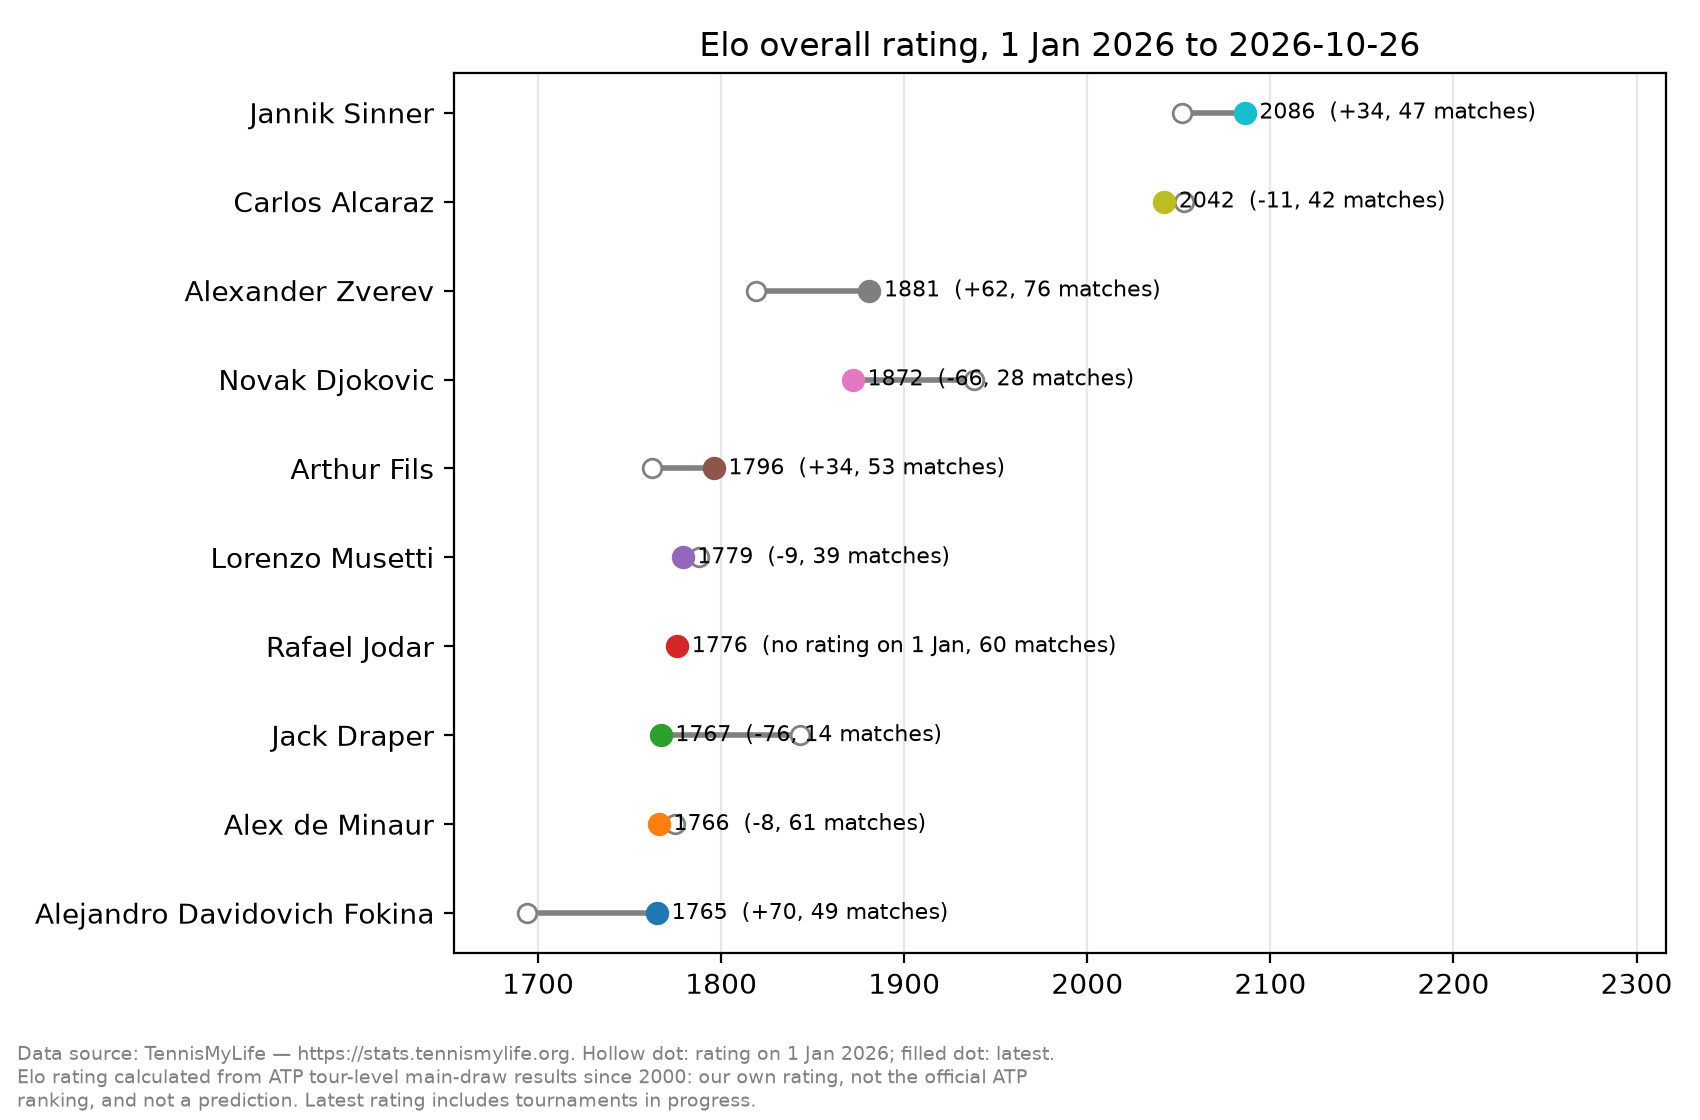
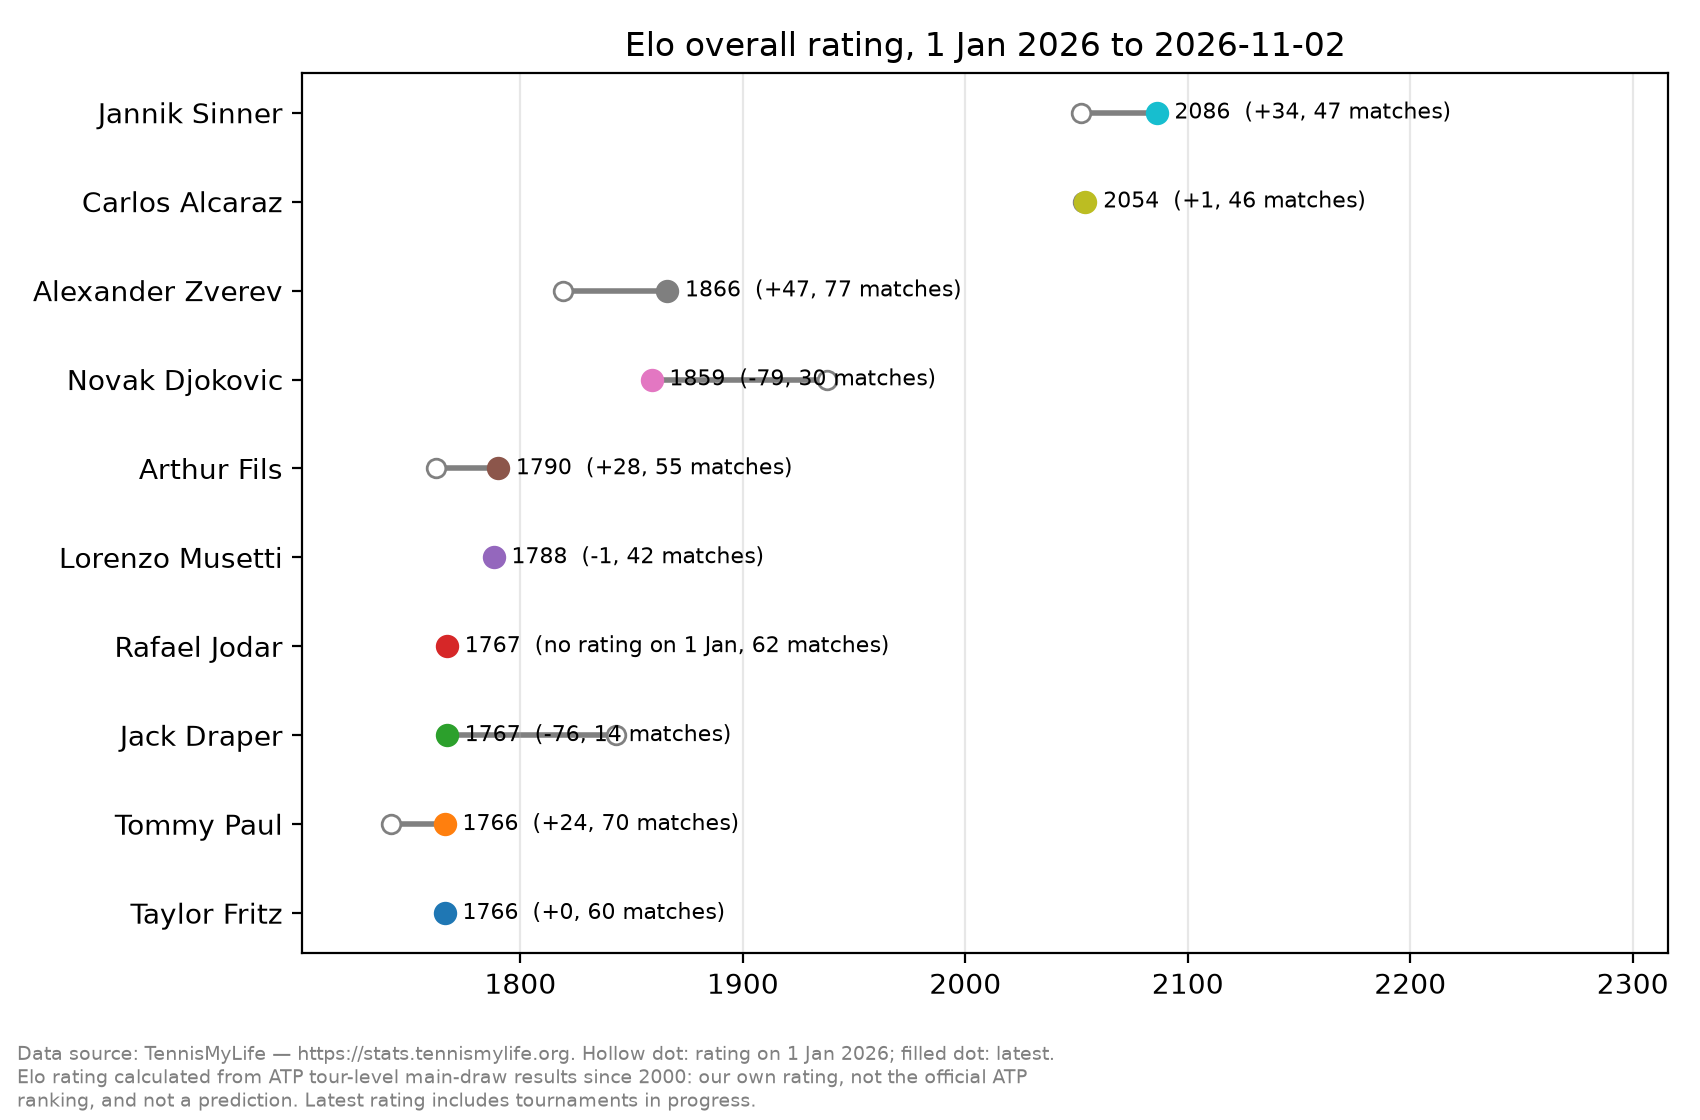
updating data and removing duplicates

diff --git a/data/Sources.md b/data/Sources.md
@@ -17,5 +17,5 @@ This file records where each file came from so the work can be reproduced.
 | --- | --- | --- |
 | 2024.csv | 2026-10-22 | 653,446 bytes. ATP main tour. Includes Davis Cup (tourney_level D), to be filtered out. |
  | 2000.csv to 2026.csv | 2026-10-23 | ATP main tour yearly files, downloaded in one batch (2024.csv on 2026-10-22). 2026 is a partial season. |   | 2000.csv to 2026.csv (re-downloaded) | 2026-10-25 | Corrected versions after reporting issues to TML. TML replied by email (2026-10-25) that four issues were fixed: 2025 missing match numbers, 2026 US Open indoor value, 2026 Winston-Salem level, 2024 Doha and Los Cabos level. The email did not address the licence question. Previous versions kept locally in data/raw/before_tml_fix/ (not published). |
-| 2000.csv to 2026.csv (refreshed) | 2026-10-28 | Re-downloaded before first publication. Previous versions kept locally in data/raw/downloaded_2026-10-25/ (not published). SHA256 hashes in data/own/raw_file_hashes_2026-10-28.txt. 2026 is a partial season; tournaments in progress are incomplete. |
+| 2000.csv to 2026.csv (refreshed) | 2026-11-09 | Re-downloaded before first publication. Previous versions kept locally in data/raw/downloaded_2026-10-25/ (not published). SHA256 hashes in data/own/raw_file_hashes_2026-10-28.txt. 2026 is a partial season; tournaments in progress are incomplete. |
 - Weather: Open-Meteo historical weather API (open-meteo.com, CC BY 4.0, non-commercial use), consulted 2026-11-07; model data at each venue's coordinates, used per edition of the outdoor events.
